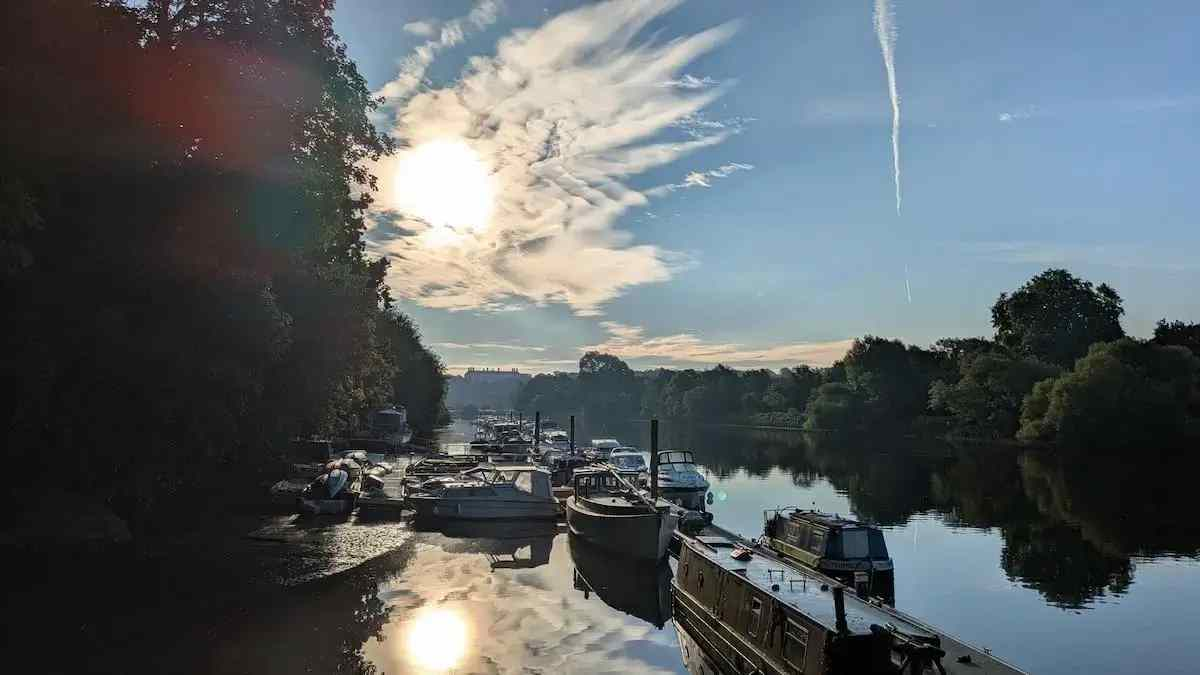
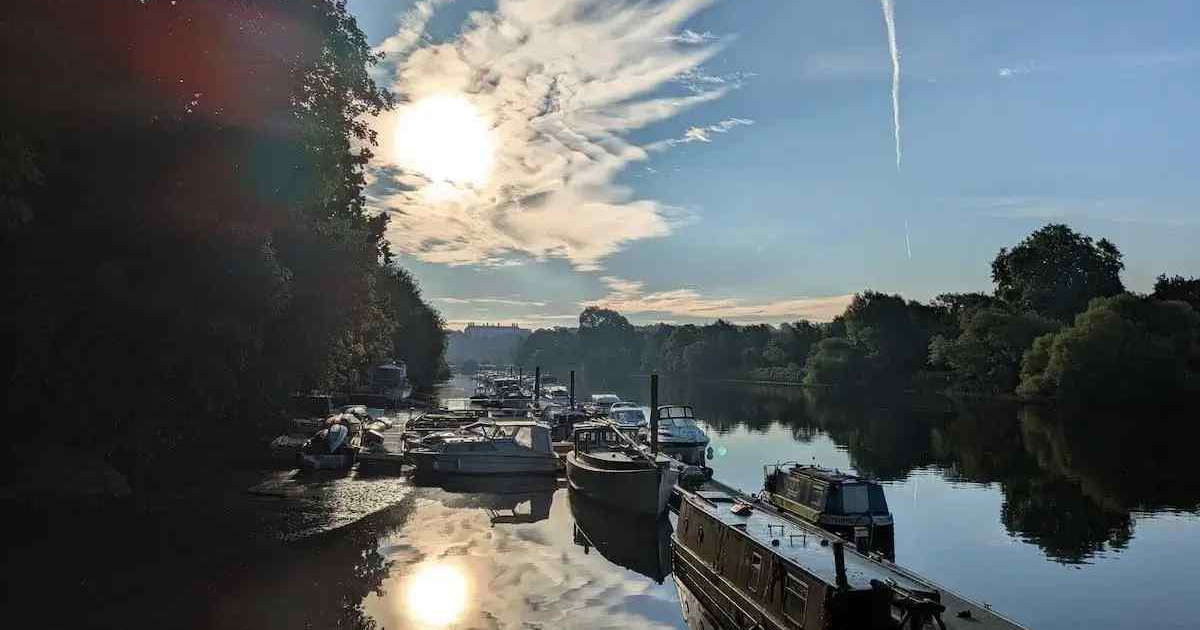
chore: crop

diff --git a/tinypng/index.ts b/tinypng/index.ts
@@ -71,12 +71,12 @@ async function processImageFiles(imageFiles: string[]) {
         ? source
             .resize({
               method: 'fit',
-              width: 800,
-              height: 450,
+              width: 1200,
+              height: 630,
             })
-            .convert({
-              type: ['image/png'], // title images are always png because social media sharing doesn't support webp well enough
-            })
+            // .convert({
+            //   type: ['image/png'], // title images are always png because social media sharing doesn't support webp well enough
+            // })
         : source.convert({
             type: ['image/webp', 'image/png'],
           });